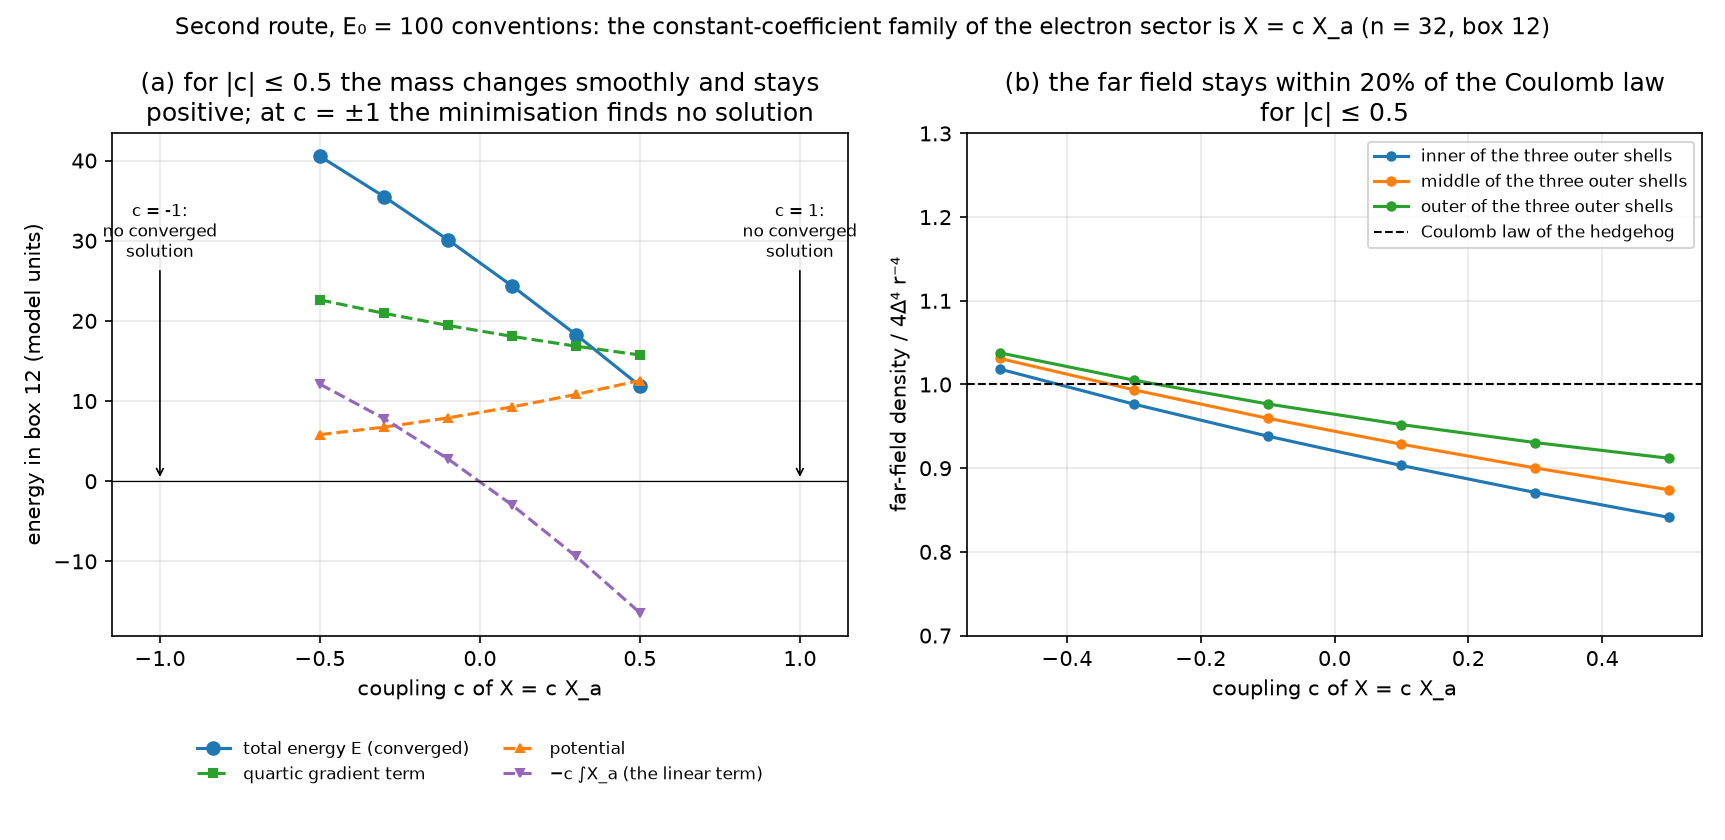
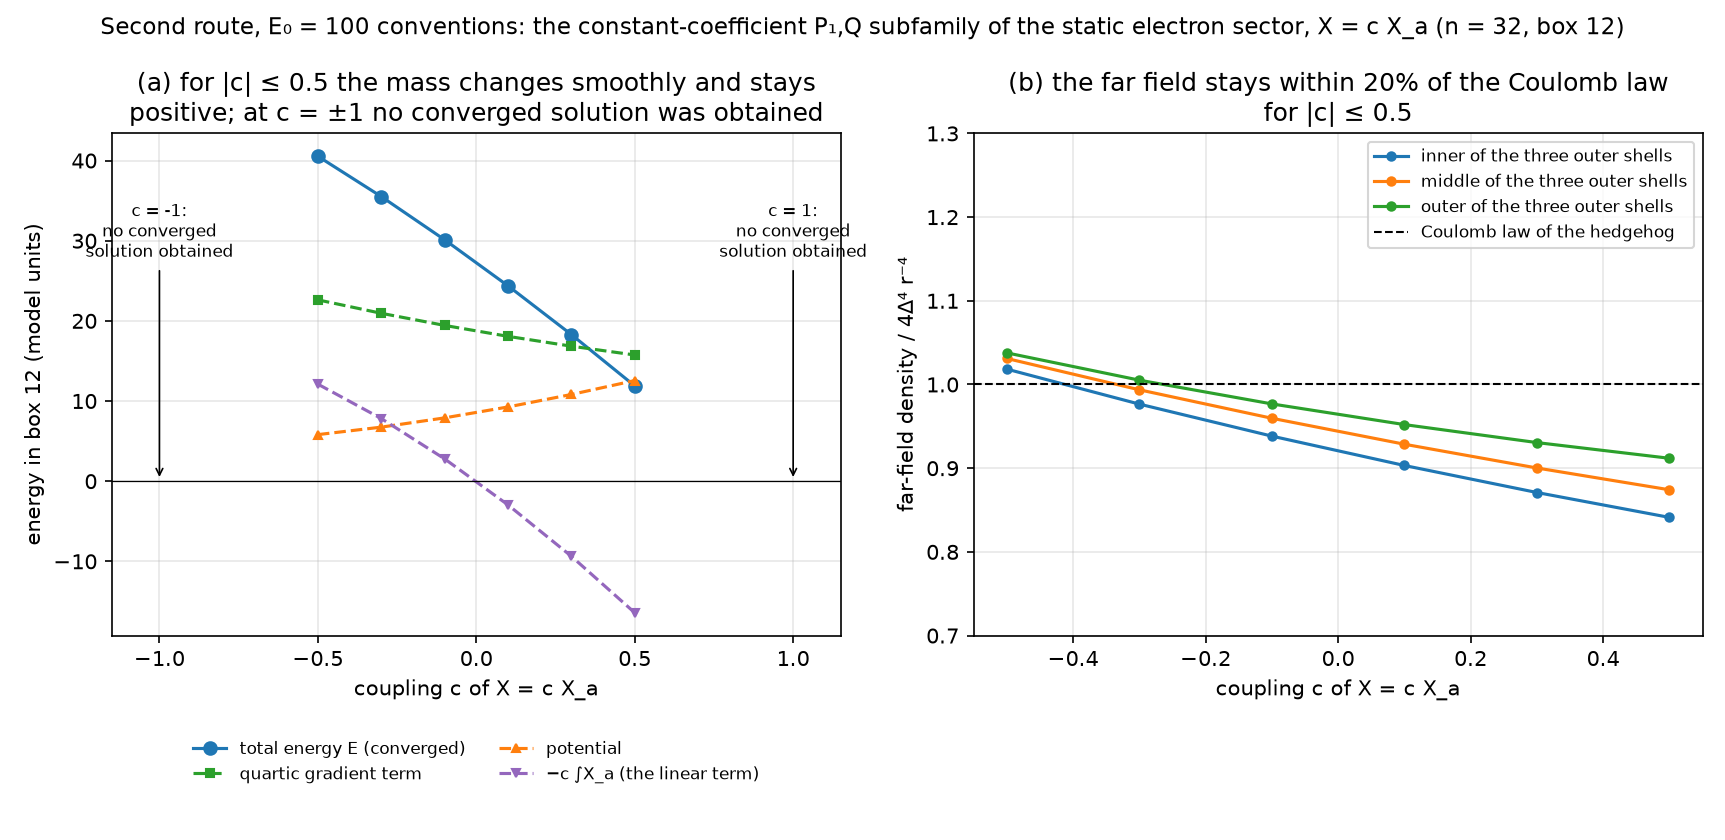
014 review round 2: scope wording of the E0 subfamily (constant-coefficient P1,Q; independent terms possible, not asserted), relaxation direction and eigenvalue-gap statements aligned with the records, residual and ray scales quoted at the artifact level, figure captions
Claude-Session: https://claude.ai/code/session_01QP2nAtvThEMWhiKzux6iWF

diff --git a/reports/014-linear-F-terms/make_figures.py b/reports/014-linear-F-terms/make_figures.py
@@ -144,11 +144,11 @@ def fig_electron_scan():
     ww = np.linspace(-0.22, 0.22, 10)
     ax[0].plot(ww, ww * lt['E_stat_base'], 'k--', lw=1, label='frozen value λ·∫dens (no relaxation)')
     ax[0].set(xlabel='weight λ·∫dens / E_static on the base profile', ylabel='E(λ) − E(0) (model units)',
-              title='(a) the energy shift follows the frozen value;\nthe relaxed field pulls it back toward zero')
+              title='(a) the energy shift follows the frozen value; relaxation\nlowers the energy relative to the frozen configuration')
     ax[1].axhline(base['tail_eta'], color='k', ls=':', lw=1, label='baseline (λ = 0)')
     ax[1].set(xlabel='weight λ·∫dens / E_static', ylabel='far-field exponent of the η density (shells r = 8–16)', title='(b) the far-field exponent moves with the weight,\nclass-dependently')
     ax[2].axhline(1e3 * base['small_gap_min'], color='k', ls=':', lw=1, label='baseline (λ = 0)')
-    ax[2].set(xlabel='weight λ·∫dens / E_static', ylabel='smallest gap of the small eigenvalue pair (×10⁻³)', title="(c) the core's eigenvalue-exchange gap narrows\nbut does not close")
+    ax[2].set(xlabel='weight λ·∫dens / E_static', ylabel='smallest gap between the two lowest eigenvalues (×10⁻³)', title='(c) the gap between the two lowest eigenvalues varies\nbut stays nonzero in the sampled runs')
     h = [Line2D([], [], color='C0', marker=MARK[c], ls='none', label=f'class {CLASS_LABEL[c]}') for c in MARK]
     ax[0].legend(handles=h + [Line2D([], [], color='k', ls='--', label='frozen value'), Line2D([], [], color='k', marker='x', ls='none', label='perturbed restart (20% runs)')], fontsize=8, loc='upper left', title='classes offset slightly in x', title_fontsize=7)
     for a in ax[1:]:
@@ -167,13 +167,13 @@ def fig_e0_scan():
     fig, ax = plt.subplots(1, 2, figsize=(11.5, 5.6))
     ax[0].plot(c[ok], E[ok], 'o-', color='C0', label='total energy E (converged)')
     for cc in c[~ok]:
-        ax[0].annotate('c = %g:\nno converged\nsolution' % cc, xy=(cc, 0), xytext=(cc, 28), ha='center', fontsize=8, arrowprops=dict(arrowstyle='->', lw=0.8))
+        ax[0].annotate('c = %g:\nno converged\nsolution obtained' % cc, xy=(cc, 0), xytext=(cc, 28), ha='center', fontsize=8, arrowprops=dict(arrowstyle='->', lw=0.8))
     ax[0].set_xlim(-1.15, 1.15)
     ax[0].plot(c[ok], [r['E4'] for r in rows if r['grad'] < 1e-4], 's--', color='C2', ms=4, label='quartic gradient term')
     ax[0].plot(c[ok], [r['EV'] for r in rows if r['grad'] < 1e-4], '^--', color='C1', ms=4, label='potential')
     ax[0].plot(c[ok], [r['E2'] for r in rows if r['grad'] < 1e-4], 'v--', color='C4', ms=4, label='−c ∫X_a (the linear term)')
     ax[0].axhline(0, color='k', lw=0.6)
-    ax[0].set(xlabel='coupling c of X = c X_a', ylabel='energy in box 12 (model units)', title='(a) for |c| ≤ 0.5 the mass changes smoothly and stays\npositive; at c = ±1 the minimisation finds no solution')
+    ax[0].set(xlabel='coupling c of X = c X_a', ylabel='energy in box 12 (model units)', title='(a) for |c| ≤ 0.5 the mass changes smoothly and stays\npositive; at c = ±1 no converged solution was obtained')
     ax[0].legend(fontsize=8, loc='upper center', bbox_to_anchor=(0.5, -0.18), ncol=2, frameon=False)
     for i, sh in enumerate(('inner', 'middle', 'outer')):
         ax[1].plot(c[ok], [r['tail_ratio'][i] for r in rows if r['grad'] < 1e-4], 'o-', ms=4, label=f'{sh} of the three outer shells')
@@ -182,7 +182,7 @@ def fig_e0_scan():
     ax[1].legend(fontsize=8)
     for a in ax:
         a.grid(alpha=0.3)
-    fig.suptitle('Second route, E₀ = 100 conventions: the constant-coefficient family of the electron sector is X = c X_a (n = 32, box 12)', fontsize=11)
+    fig.suptitle('Second route, E₀ = 100 conventions: the constant-coefficient P₁,Q subfamily of the static electron sector, X = c X_a (n = 32, box 12)', fontsize=11)
     fig.tight_layout()
     fig.savefig(os.path.join(R, 'fig_e0_scan.png'), dpi=150)
 

diff --git a/reports/014-linear-F-terms/README.md b/reports/014-linear-F-terms/README.md
@@ -48,9 +48,11 @@ n = 32).
    scalars; φ = Σ_{a<b} 2F_ab. Second route: an independent
    enumeration in the E₀ = 100 conventions (145 candidates built from
    η, ε, powers of M, δ_M and the eigenprojectors) finds every candidate
-   in the span of the same twelve frame structures to 10⁻¹¹, with two
-   null ones (the constant-coefficient φ and χ) and four identically
-   zero (`e0_route/candidates.py`).
+   in the span of the same twelve frame structures to below 10⁻⁸, with
+   two null ones (the constant-coefficient φ and χ) and four
+   identically zero (`e0_route/candidates.py`; this classification runs
+   at a non-degenerate spectrum (100, 1, 0.01, 0), the scan of result 4
+   at the degenerate pair E₂ = E₃).
 2. **Every decorated class is dynamical.** An autograd Euler–Lagrange
    test with the projectors' full M-dependence gives |EL|/scale between
    0.15 and 0.9 for all 36 decorated classes, while φ and χ come out
@@ -76,25 +78,28 @@ n = 32).
    F² statics. On the η-relaxed electron, with vacuum-pinned projectors,
    each class is scanned at weights of ±5% and ±20% of the static
    energy (13 runs). The energy shift follows the frozen value λ·∫dens
-   to within 30%, the relaxed field pulling it back toward zero; the
-   far-field exponent moves with the weight, and the core's
-   eigenvalue-exchange gap narrows but does not close (figure 3). The
+   to within 30%, the relaxed field lowering the energy relative to the
+   frozen trial configuration (so a negative shift can grow in
+   magnitude); the far-field exponent moves with the weight, and the
+   smallest gap between the two lowest eigenvalues varies but stays
+   nonzero in the sampled runs (figure 3). The
    E₀ = 100 route says the same in its own conventions. There the
    static frozen-time sector keeps three structures, F₁₂, F₁₃, F₂₃
    (rank 3 at a generic static field); with the degenerate vacuum pair
    E₂ = E₃ only F₁₂ + F₁₃ and F₂₃ are defined as functions of M, and
-   their constant-coefficient sum is a boundary term, so the
-   **constant-coefficient** subfamily is X = c X_a with X_a = F₁₂ + F₁₃.
-   A scan over c changes the mass smoothly without changing any static
-   verdict for |c| ≤ 0.5 (figure 4). Contractions whose weights are
-   functions of the eigenvalues, such as F(ηMη, η) = Σ(m_a + m_b)F_ab,
-   are dynamically independent of X_a and are not covered by this scan
-   (review round 1).
+   their constant-coefficient sum is a boundary term, so the selected
+   **constant-coefficient P₁, Q subfamily**, regular at the small-pair
+   degeneracy, is X = c X_a with X_a = F₁₂ + F₁₃. A scan over c changes
+   the mass smoothly without changing any static verdict for |c| ≤ 0.5
+   (figure 4). Contractions whose weights are functions of the
+   eigenvalues can supply dynamically independent terms (for example
+   F(ηMη, η) = Σ(m_a + m_b)F_ab, review round 1) and are not covered by
+   this scan.
 5. **The uniform vacuum is a saddle at cubic order.** Along a generic
    compact frame twist M = R M_vac Rᵀ, R = exp(tW(x)), the O(t²) part of
    a linear term integrates to zero (it is the null term with vacuum
    coefficients), but the next order does not: the odd part of the
-   linear integral is c₃t³ with c₃ constant to five digits over
+   linear integral is c₃t³ with c₃ stable over the tested amplitudes
    t = 5·10⁻⁴–4·10⁻³ and |c₃| between 0.1 and 1.2 over three random
    twists and the three classes, while the η energy is c₄t⁴ with
    c₄ = 53–71. So, along the three twists tested, for every λ ≠ 0 configurations
@@ -102,8 +107,10 @@ n = 32).
    (figure 2). Null combinations are exempt: c₃ of
    F₁₂ + F₁₃ + F₂₃ = φ/2 cancels to 10⁻⁵ in every twist. Whether the
    instability ends in a condensate is not resolved: the cubic–quartic
-   truncation along a ray has its minimum at t* = −3λc₃/(4c₄) ≈ 10⁻⁵ with
-   an energy of order 10⁻²⁰, far below anything a relaxation resolves.
+   truncation along a ray has its minimum at t* = −3λc₃/(4c₄), for the
+   illustrated F₁₂ twist (seed 456) at the 5% coupling t* ≈ 10⁻⁵ with an
+   energy of order 10⁻²⁰ (10⁻¹⁵ on another recorded ray), far below
+   anything a relaxation resolves.
 
 ![family](results/fig_family.png)
 
@@ -141,9 +148,10 @@ small pair is 3·10⁻³, a third of a percent of the eigenvalue.
   estimates are not stationary in the transverse directions and three
   twists give no bound over all directions.
 - Coefficients are restricted to η, ε and the spectral data of M; both
-  scans run constant multiples of their generators; no scan over
-  general spectral-scalar weights (polynomials in M included), which
-  are dynamically independent of the constant-coefficient family. Single lattice, single spacing in each
+  scans run constant multiples of their generators (the E₀ = 100 scan
+  the selected constant-coefficient P₁, Q subfamily); no scan over
+  general spectral-scalar weights, polynomials in M included, which can
+  supply dynamically independent terms. Single lattice, single spacing in each
   route; the far-field exponent is a shell fit on a 32³ box.
 - Author-gated: the diagonal Lorentz action; whether a term that rewards
   eigenvalue splitting is wanted at all.
